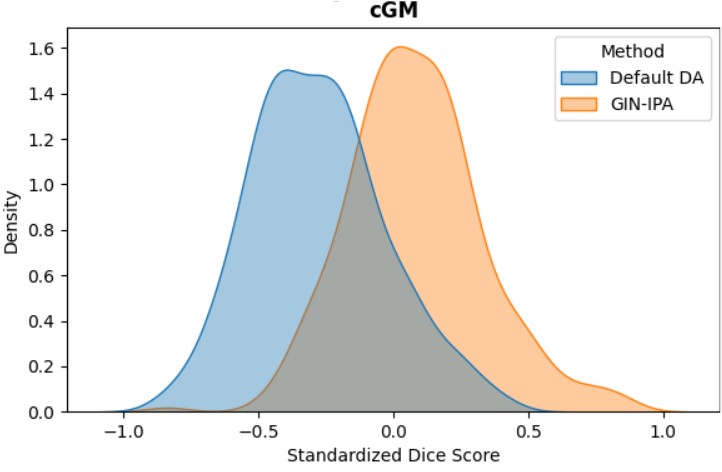
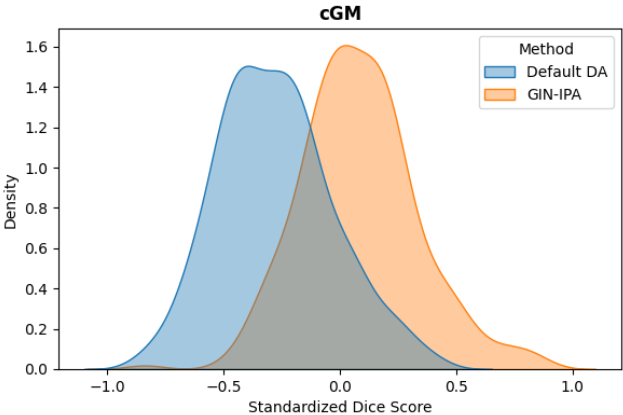
Fix figure visualization

diff --git a/sources/Results.tex b/sources/Results.tex
@@ -79,7 +79,7 @@ Kernel density estimation (KDE) plots were generated for each metric and label, 
 
 \begin{figure}[htbp]
   \centering
-  \includegraphics[width=0.45\textwidth]{figures/1_mial-irtk_DC_Ventr.png}\quad
+  \includegraphics[width=0.45\textwidth]{figures/1_mial-irtk_DC_Ventr.png}\hspace{9pt}
   \includegraphics[width=0.45\textwidth]{figures/1_mial-irtk_HD_Ventr.png}
   \caption{Baseline vs.\ GIN-IPA: KDE plots of DSC (left) and HD95 (right) in ventricles, from models trained on Kispi-mial and inferring on Kispi-irtk.}
   \label{fig:1_mial_irtk_ventr}
@@ -89,8 +89,8 @@ Kernel density estimation (KDE) plots were generated for each metric and label, 
   \centering
   \includegraphics[width=0.45\textwidth]{figures/1_mial-dhcp_DC_cGM.png}\quad
   \includegraphics[width=0.46\textwidth]{figures/1_mial-dhcp_DC_dGM.png} \\
-  \vspace{10pt}
-  \includegraphics[width=0.45\textwidth]{figures/1_mial-dhcp_VS_cGM.png}\quad
+  \vspace{5pt}
+  \includegraphics[width=0.455\textwidth]{figures/1_mial-dhcp_VS_cGM.png}\quad
   \includegraphics[width=0.46\textwidth]{figures/1_mial-dhcp_VS_dGM.png}
   \caption{Baseline vs.\ GIN-IPA: KDE plots of DSC (top) and VS (bottom) in cortical gray matter and deep gray matter, from models trained on Kispi-mial and inferring on dHCP.}
   \label{fig:1_mial_dhcp_gm}
@@ -162,24 +162,14 @@ Kernel density estimation (KDE) plots were generated for each metric and label, 
   No differences observed on any inference dataset, metric, or label.
 \end{itemize}
 
-\comment{
-\begin{figure}[p]
-  \centering
-  \includegraphics[width=0.445\textwidth]{figures/2_mial-dhcp_DC_Ventr.png}\quad
-  \includegraphics[width=0.45\textwidth]{figures/2_mial-dhcp_DC_dGM.png}
-  \caption{GIN-IPA vs.\ combined DA: KDE plots of DSC in ventricles and deep gray matter, from models trained on Kispi-mial and inferring on dHCP.}
-  \label{fig:2_mial_dhcp_DC}
-\end{figure}
-}
-
 \begin{figure}[htbp]
   \centering
   \includegraphics[width=0.45\textwidth]{figures/2_irtk-mial_DC_cGM.png}\quad
-  \includegraphics[width=0.45\textwidth]{figures/2_irtk-mial_DC_Cereb.png} \\
+  \includegraphics[width=0.46\textwidth]{figures/2_irtk-mial_DC_Cereb.png} \\
   \vspace{10pt}
   \includegraphics[width=0.45\textwidth]{figures/2_irtk-mial_HD_cGM.png}\quad
-  \includegraphics[width=0.45\textwidth]{figures/2_irtk-mial_HD_Cereb.png}
-  \caption{GIN-IPA vs.\ combined DA: KDE plots of DSC (top) and HD (bottom) in cortical gray matter and cerebellum, from models trained on Kispi-irtk and inferring on Kispi-mial.}
+  \includegraphics[width=0.46\textwidth]{figures/2_irtk-mial_HD_Cereb.png}
+  \caption{GIN-IPA vs.\ combined DA: KDE plots of DSC (top) and HD95 (bottom) in cortical gray matter and cerebellum, from models trained on Kispi-irtk and inferring on Kispi-mial.}
   \label{fig:2_irtk_mial}
 \end{figure}
 

diff --git a/sources/AppendixB.tex b/sources/AppendixB.tex
@@ -137,6 +137,6 @@
       &  & HD95 & $0.7 \rightarrow 0.7$ & --- & --- \\
     \bottomrule
   \end{tabular}
-  \caption{GIN-IPA vs.\ combined aug.: mean performance variation, Wilcoxon $p$-value and Cohen's |$\abs{d}$ across training/inference datasets and metrics. To improve comprehensibility, the absolute value of VS is shown. Where the $p$-value and the Cohen's $\abs{d}$ are missing, it is because the performance variation is either negative or negligible. ${ }^{\dagger}$: $p$-value $< 0.05$; ${ }^{\ddagger}$: $p$-value $<0.01$. ${ }^{*}$: $\abs{d}>0.2$; ${ }^{**}$: $\abs{d}>0.5$; ${ }^{***}$: $\abs{d}>0.8$.}
+  \caption{GIN-IPA vs.\ combined aug.: mean performance variation, Wilcoxon $p$-value and Cohen's $\abs{d}$ across training/inference datasets and metrics. To improve comprehensibility, the absolute value of VS is shown. Where the $p$-value and the Cohen's $\abs{d}$ are missing, it is because the performance variation is either negative or negligible. ${ }^{\dagger}$: $p$-value $< 0.05$; ${ }^{\ddagger}$: $p$-value $<0.01$. ${ }^{*}$: $\abs{d}>0.2$; ${ }^{**}$: $\abs{d}>0.5$; ${ }^{***}$: $\abs{d}>0.8$.}
   \label{tab:ginipa_vs_combined_stats}
 \end{table}
